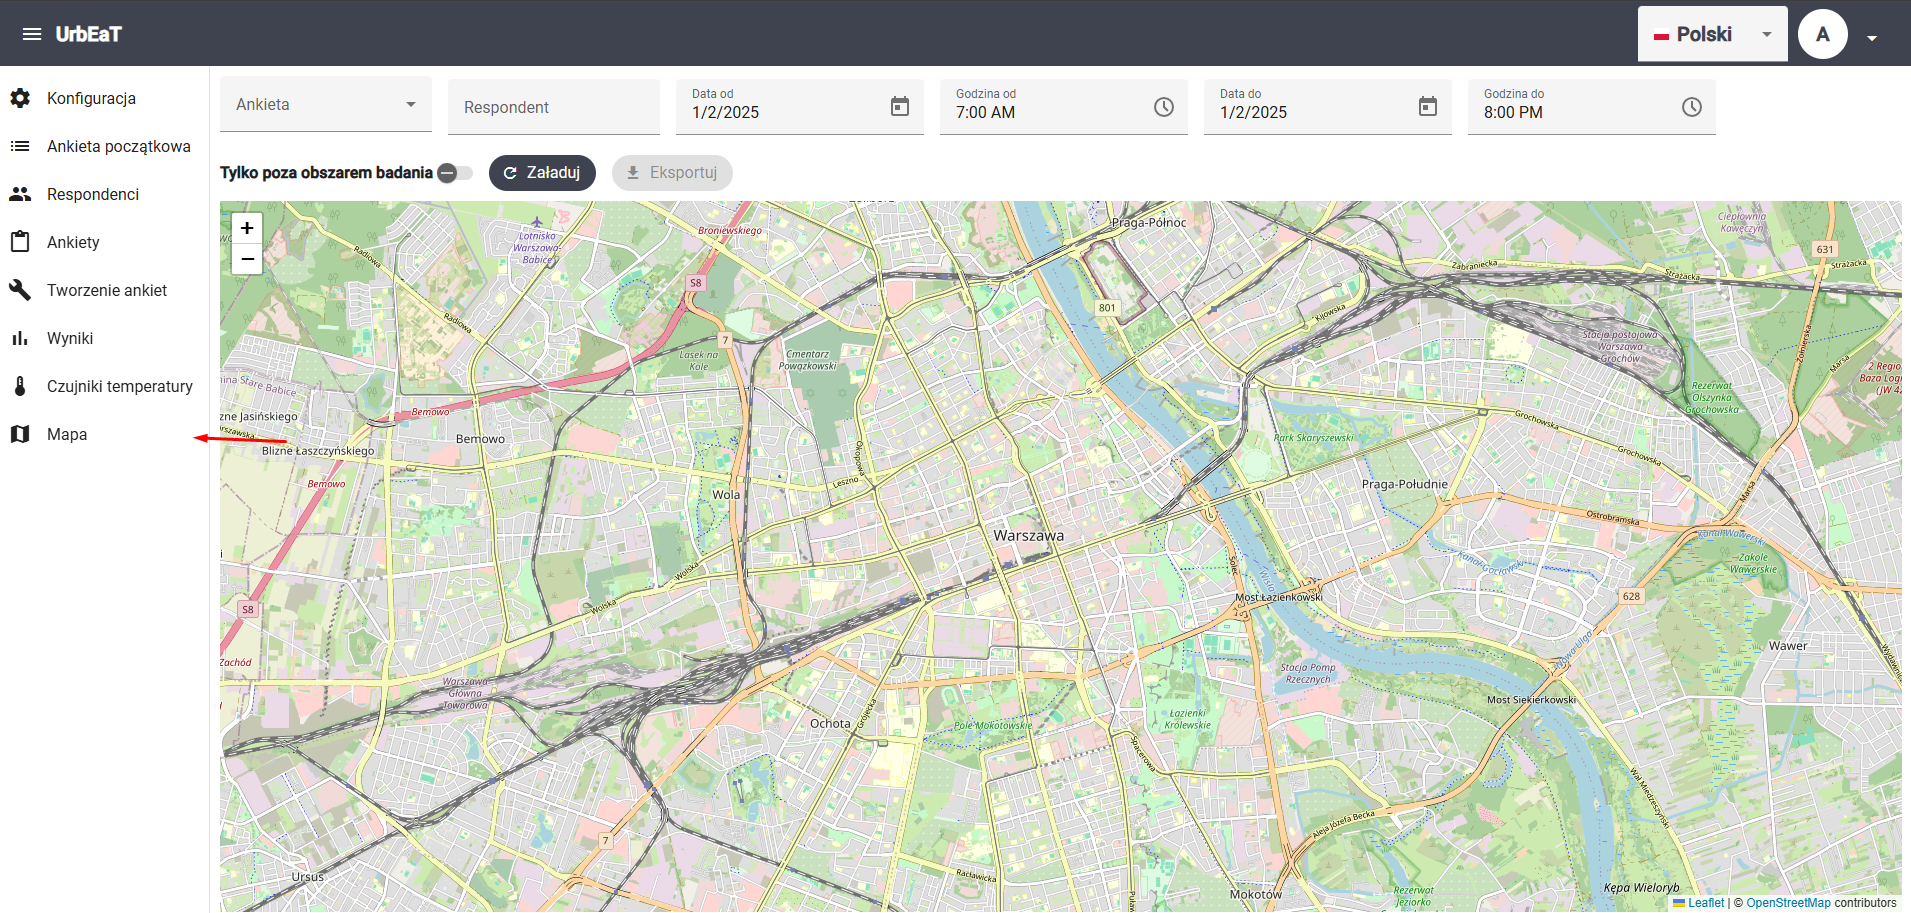
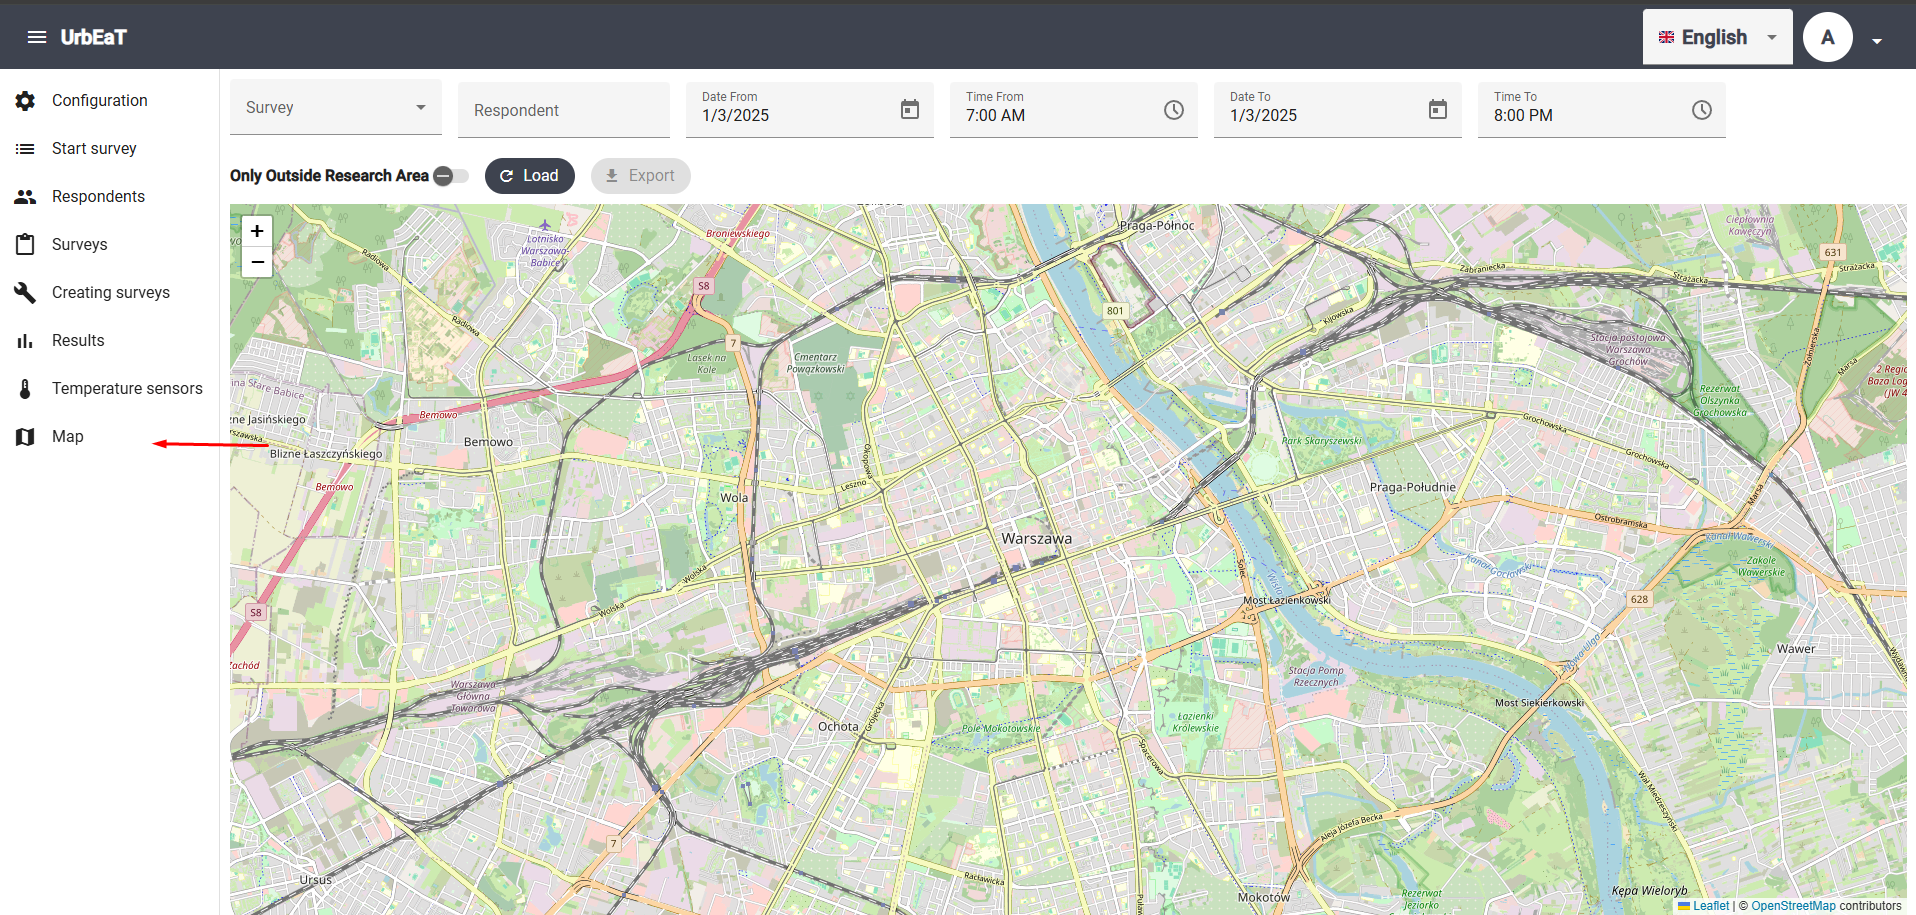
english map

diff --git a/docs/user_documentation/en/map/map.md b/docs/user_documentation/en/map/map.md
@@ -1,32 +1,32 @@
-# Mapa
+# Map
 
-Aby przejść do modułu `Mapa`, wybierz odpowiednią zakładkę w bocznym panelu po lewej stronie ekranu
+To access the `Map` module, select the appropriate tab in the sidebar on the left side of the screen.
 
 ![alt text](imgs/turn_on.png)
 
-W tym module możesz przeglądać i eksportować dane lokalizacyjne
+In this module, you can view and export location data.
 
-## Filtry 
+## Filters
 
-Możesz ustawić teraz następujące filtry:
+You can now set the following filters:
 
-- ankieta
-- respondent
-- data i godzina od
-- data i godzina do
-- tylko poza obszarem badania (wyświetlone zostaną tylko pomiary spoza obszaru badania ustawionego w konfiguracji)
+- Survey
+- Respondent
+- Date and time from
+- Date and time to
+- Only outside the study area (only measurements outside the study area defined in the configuration will be displayed)
 
-## Przeglądanie wyników na mapie
+## Viewing Results on the Map
 
-Po wciśnięciu przycisku `Załaduj`, zostaną wczytane wyniki, a na mapie pokażą się odpowiednie punkty. Po najechaniu myszą na punkt, zostaną wyświetlone szczegóły związane z danym pomiarem
+After clicking the `Load` button, the results will be loaded, and the corresponding points will appear on the map. Hovering over a point with the mouse will display details related to that measurement.
 
 ![alt text](imgs/result.png)
 
-## Eksport wyników
+## Exporting Results
 
-Po wczytaniu danych możesz je eksportować do pliku `.csv` za pomocą przycisku `Eksportuj`.
+After loading the data, you can export it to a `.csv` file using the `Export` button.
 
-Przykładowy plik z wynikami:
+Sample file with results:
 ```csv
 latitude,longitude,respondentId,dateTime,surveyId,outsideResearchArea
 37.785834,-122.406417,fcba4efb-e4e6-4d85-a301-5bd79d1e66b2,2024-12-17T18:35:06Z,8e8ed522-b7dd-42cd-97a2-0bd50002d992,
